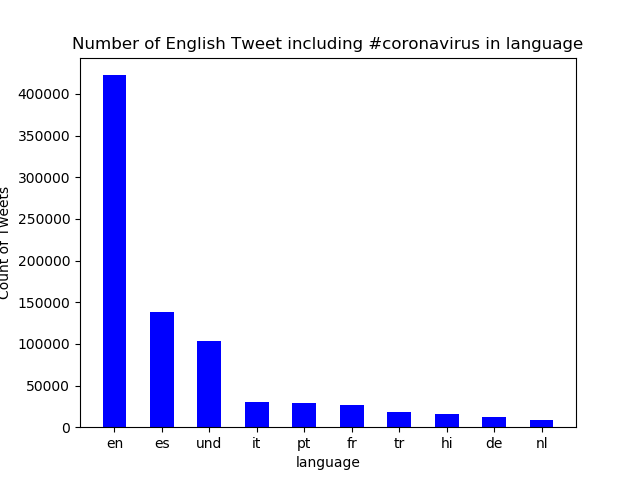
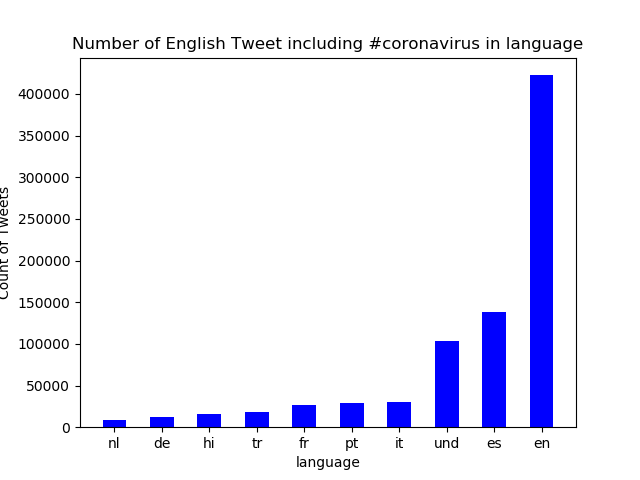
reverse graph order

diff --git a/src/visualize.py b/src/visualize.py
@@ -43,7 +43,7 @@ for k,v in items:
 #plt.rcParams['font.family'] = ['Noto Sans CJK', 'DejaVu Sans'] 
 
 # top 10
-items_top = items[:10]
+items_top = sorted(items[:10], key=lambda x: x[1], reverse = False)
 x,y = zip(*items_top)
 print(x,y)
 
@@ -71,11 +71,12 @@ plt.title("Number of " + language + " Tweet including " + args.key + " in " + ca
 
 plt.savefig(f"{language}_{category}.png")
 
-plt.show()
-try:
-    plt.savefig(f"{language}_{category}.png")
-except:
-    print("error")
+#plt.show()
+#try:
+ #   plt.savefig(f"{language}_{category}.png")
+#except:
+ #   print("error")
 
 # The horizontal axis of the graph should be the keys of the input file, only need to include the top 10 keys.
-
+# display Korean
+# print(matplotlib.matplotlib_fname())
